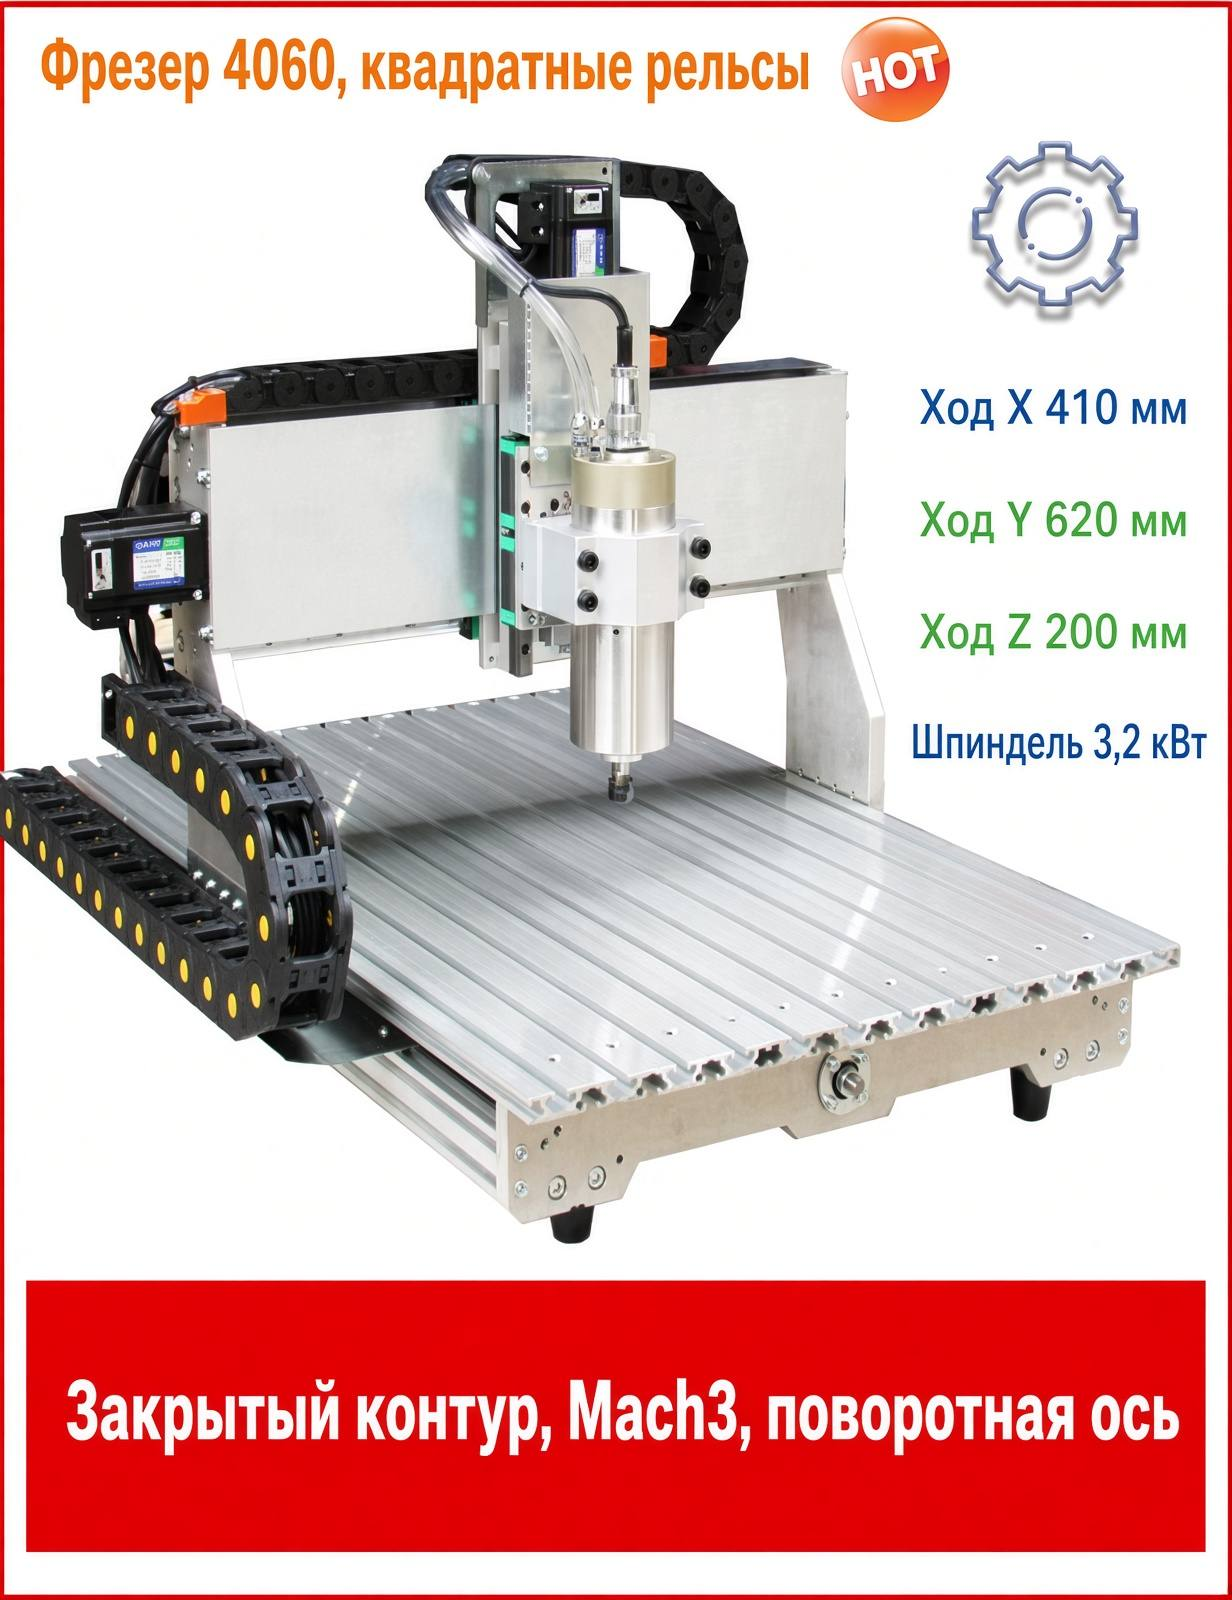
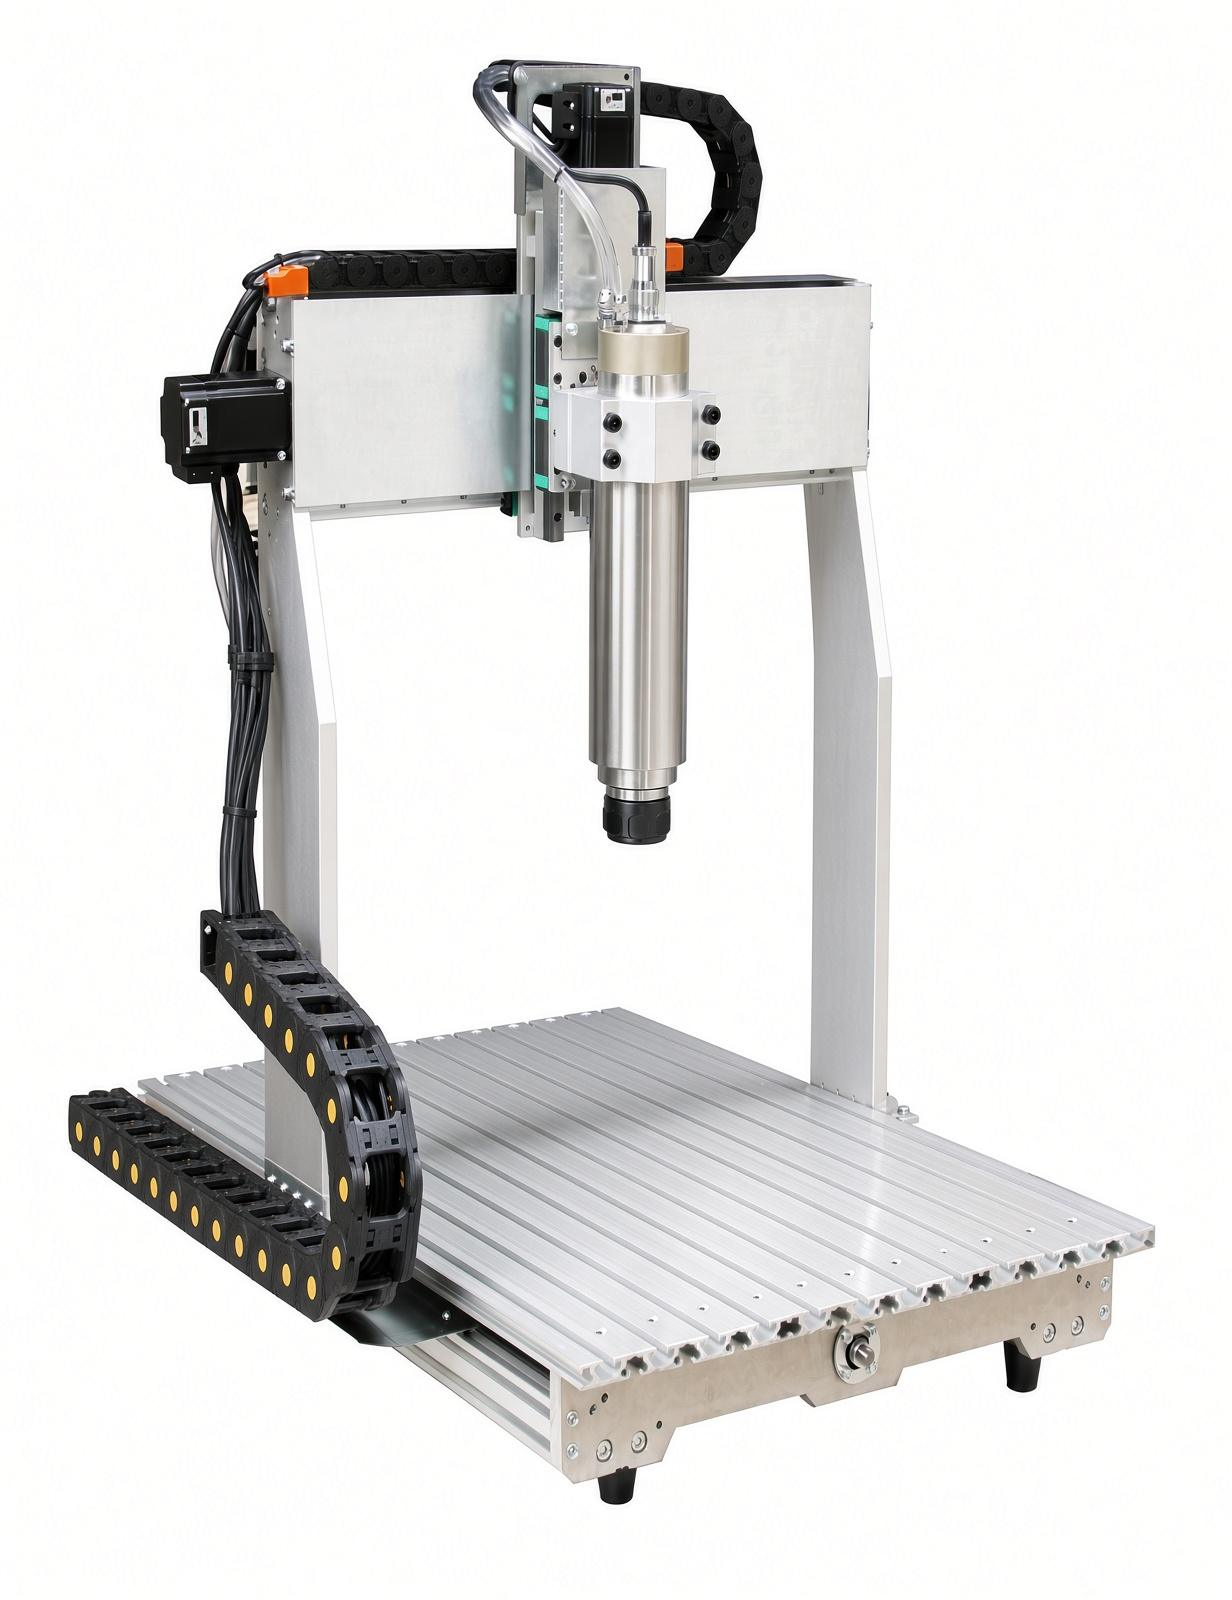
Поднятый портал, фото оси A и экран Mach3 сразу под шапкой

diff --git a/index.html b/index.html
@@ -38,8 +38,15 @@ footer { padding:22px 20px 36px; color:var(--muted); font-size:14px; }
 <main>
 <section>
   <div class="wrap">
-    <img alt="Фрезер 4060, квадратные рельсы, ход Z 200 мм" src="https://raw.githubusercontent.com/robo-sklad/cnc-4060-mach3/main/img/hero.jpg">
-    <figcaption>Общий вид. Портал изготавливается под просвет 200 мм и ход Z 200 мм.</figcaption>
+    <img alt="Фрезер 4060, квадратные рельсы, ход Z 200 мм" src="https://cdn.jsdelivr.net/gh/robo-sklad/cnc-4060-mach3@main/img/hero.jpg">
+    <figcaption>Общий вид. Портал поднят: просвет и ход по Z 200 мм. Шпиндель на кадре — водяной, диаметр 100 мм.</figcaption>
+  </div>
+</section>
+<section>
+  <div class="wrap">
+    <h2>Управление Mach3</h2>
+    <p>Программа станка — Mach3. На экране координаты X, Y, Z и четвёртая ось, пуск цикла, удержание подачи, ручной перемещатель. Файл обработки загружается с компьютера на Windows.</p>
+    <img alt="Экран программы Mach3" src="https://cdn.jsdelivr.net/gh/robo-sklad/cnc-4060-mach3@main/img/mach3.jpg">
   </div>
 </section>
 <section>
@@ -71,38 +78,32 @@ footer { padding:22px 20px 36px; color:var(--muted); font-size:14px; }
     <h2>Привод с обратной связью</h2>
     <p>На осях X, Y и Z стоят гибридные шаговые двигатели закрытого контура. На валу двигателя энкодер. Если каретка теряет шаг под нагрузкой, драйвер это видит и возвращает положение. У открытого шагового привода такого контроля нет: ошибка остаётся в детали.</p>
     <p>Это привод перемещений, не привод шпинделя. Шпиндель асинхронный, обороты задаёт частотный преобразователь.</p>
-    <img alt="Параметры заказа" src="https://raw.githubusercontent.com/robo-sklad/cnc-4060-mach3/main/img/spec.jpg">
+    <img alt="Параметры заказа" src="https://cdn.jsdelivr.net/gh/robo-sklad/cnc-4060-mach3@main/img/spec.jpg">
   </div>
 </section>
 <section>
   <div class="wrap">
     <h2>Шпиндель GDZ-100-3.2KW</h2>
-    <img alt="Шпиндель 3,2 кВт, диаметр 100 мм, четыре подшипника" src="https://raw.githubusercontent.com/robo-sklad/cnc-4060-mach3/main/img/spindle.jpg">
+    <img alt="Шпиндель 3,2 кВт, диаметр 100 мм, четыре подшипника" src="https://cdn.jsdelivr.net/gh/robo-sklad/cnc-4060-mach3@main/img/spindle.jpg">
     <figcaption>Длина корпуса 245 мм, диаметр 100 мм, водяные штуцеры на заднем фланце. Кронштейн станка изготавливается под этот диаметр.</figcaption>
-    <img alt="Цанговый зажим ER20" src="https://raw.githubusercontent.com/robo-sklad/cnc-4060-mach3/main/img/collet.jpg" style="margin-top:16px">
+    <img alt="Цанговый зажим ER20" src="https://cdn.jsdelivr.net/gh/robo-sklad/cnc-4060-mach3@main/img/collet.jpg" style="margin-top:16px">
     <figcaption>Гайка и цанга 6 мм входят в комплект. Остальные диаметры 1–13 мм ставятся отдельными цангами ER20.</figcaption>
   </div>
 </section>
 
 <section>
   <div class="wrap">
-    <h2>Управление Mach3</h2>
-    <p>Программа станка — Mach3. На экране координаты X, Y, Z и четвёртая ось, пуск цикла, удержание подачи, ручной перемещатель. Файл обработки загружается с компьютера на Windows.</p>
-    <img alt="Экран программы Mach3" src="https://raw.githubusercontent.com/robo-sklad/cnc-4060-mach3/main/img/mach3.jpg">
-  </div>
-</section>
-<section>
-  <div class="wrap">
     <h2>Направляющие и передача</h2>
     <p>По осям X, Y и Z стоят профильные линейные направляющие. Перемещение — шарико-винтовая передача. На оси Z два кареточных блока, один над другим.</p>
-    <img alt="Профильные направляющие и шарико-винтовая передача" src="https://raw.githubusercontent.com/robo-sklad/cnc-4060-mach3/main/img/rails.jpg">
+    <img alt="Профильные направляющие и шарико-винтовая передача" src="https://cdn.jsdelivr.net/gh/robo-sklad/cnc-4060-mach3@main/img/rails.jpg">
   </div>
 </section>
 <section>
   <div class="wrap">
     <h2>Поворотная ось A</h2>
-    <p>Ось входит в станок и распаяна на пятый канал контроллера до отгрузки. Патрон 100 мм, четыре кулачка, ключ в комплекте. Задняя бабка не устанавливается. Редуктор гармонический, 50:1, поэтому люфт делительной пары меньше, чем у червячной передачи того же класса.</p>
-    <p>Режим работы — деление и обработка по развёртке. Контроллер выдаёт шаг и направление на ось A вместе с линейными осями. Постпроцессор Mach3 должен быть настроен на эту ось. Непрерывная пятикоординатная обработка с одновременным наклоном в этой комплектации не заявляется.</p>
+    <img alt="Поворотная ось, гармонический редуктор 50:1, патрон 100 мм" src="https://cdn.jsdelivr.net/gh/robo-sklad/cnc-4060-mach3@main/img/axis.jpg">
+    <figcaption>Гармонический редуктор 50:1, двигатель 57 мм, четырёхкулачковый патрон 100 мм. Задняя бабка не входит. Ось подключена к контроллеру.</figcaption>
+    <p>Режим работы — деление и обработка по развёртке. Контроллер выдаёт шаг и направление на ось A вместе с линейными осями. Постпроцессор Mach3 настраивается на эту ось. Непрерывная пятикоординатная обработка в этой комплектации не заявляется.</p>
   </div>
 </section>
 <section>
@@ -118,7 +119,7 @@ footer { padding:22px 20px 36px; color:var(--muted); font-size:14px; }
         <p>Ванна по периметру стола и подвод жидкости. Нужна при фрезеровании алюминия, латуни и меди с охлаждением. Стоимость ванны считается отдельно.</p>
       </div>
     </div>
-    <img alt="Станок с ванной под СОЖ" src="https://raw.githubusercontent.com/robo-sklad/cnc-4060-mach3/main/img/tray.jpg" style="margin-top:16px">
+    <img alt="Станок с ванной под СОЖ" src="https://cdn.jsdelivr.net/gh/robo-sklad/cnc-4060-mach3@main/img/tray.jpg" style="margin-top:16px">
     <figcaption>Ванна под сбор и отвод СОЖ. На заказе портал выше, чем на этом кадре: просвет 200 мм.</figcaption>
   </div>
 </section>
@@ -127,11 +128,11 @@ footer { padding:22px 20px 36px; color:var(--muted); font-size:14px; }
     <h2>Шкаф управления и опора винта</h2>
     <div class="grid">
       <figure>
-        <img alt="Металлический шкаф управления" src="https://raw.githubusercontent.com/robo-sklad/cnc-4060-mach3/main/img/box.jpg">
+        <img alt="Металлический шкаф управления" src="https://cdn.jsdelivr.net/gh/robo-sklad/cnc-4060-mach3@main/img/box.jpg">
         <figcaption>Металлический шкаф: частотный преобразователь, драйверы осей, аварийный стоп.</figcaption>
       </figure>
       <figure>
-        <img alt="Радиально-упорный подшипник" src="https://raw.githubusercontent.com/robo-sklad/cnc-4060-mach3/main/img/bearing.jpg">
+        <img alt="Радиально-упорный подшипник" src="https://cdn.jsdelivr.net/gh/robo-sklad/cnc-4060-mach3@main/img/bearing.jpg">
         <figcaption>Опоры шарико-винтовой передачи — радиально-упорные подшипники.</figcaption>
       </figure>
     </div>
@@ -141,9 +142,9 @@ footer { padding:22px 20px 36px; color:var(--muted); font-size:14px; }
   <div class="wrap">
     <h2>Характер работ</h2>
     <p>Капролон, акрил, фанера, алюминий, латунь, медь, таблички из двухслойного пластика. Кадры показывают тип детали, а не партию с этого станка.</p>
-    <img alt="Примеры обработки металла и пластика" src="https://raw.githubusercontent.com/robo-sklad/cnc-4060-mach3/main/img/works.jpg">
-    <img alt="Корпусные детали из алюминия" src="https://raw.githubusercontent.com/robo-sklad/cnc-4060-mach3/main/img/alum.jpg" style="margin-top:12px">
-    <img alt="Фанера, акрил, таблички" src="https://raw.githubusercontent.com/robo-sklad/cnc-4060-mach3/main/img/signs.jpg" style="margin-top:12px">
+    <img alt="Примеры обработки металла и пластика" src="https://cdn.jsdelivr.net/gh/robo-sklad/cnc-4060-mach3@main/img/works.jpg">
+    <img alt="Корпусные детали из алюминия" src="https://cdn.jsdelivr.net/gh/robo-sklad/cnc-4060-mach3@main/img/alum.jpg" style="margin-top:12px">
+    <img alt="Фанера, акрил, таблички" src="https://cdn.jsdelivr.net/gh/robo-sklad/cnc-4060-mach3@main/img/signs.jpg" style="margin-top:12px">
   </div>
 </section>
 </main>
